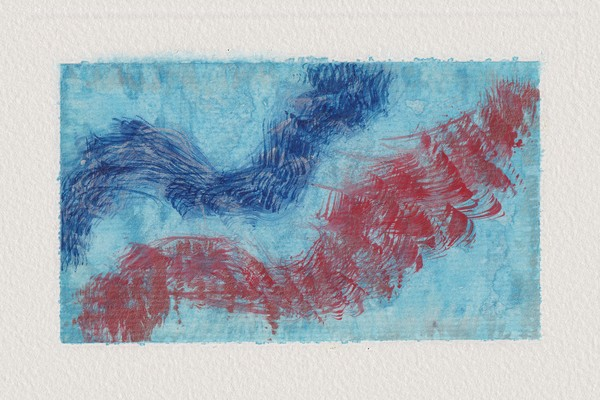
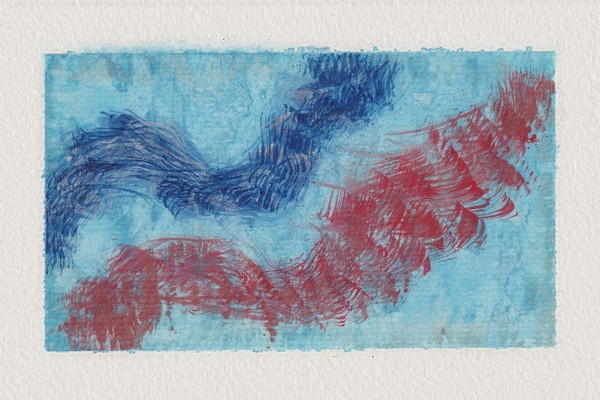
Index: Structure in one row of five, slightly larger

diff --git a/works-index.html b/works-index.html
@@ -478,14 +478,15 @@ const yearOpts = () => [['All', 'All Years']].concat([...new Set([...document.qu
 // one series on its own: works per row (the last row centred under the others)
 const SERIES_COLS = { 'Ascent': 6, 'Convergence': 3, 'Core': 3, 'Select': 3, 'Spectrum': 2, 'Structure': 3, 'The Turning': 3, 'Tonal': 3 };   // (Tonal 3/2 since 2026-10-30; it was 2/2/1)
 // rows set by hand where the plain split would differ, each centred: Convergence's seven works 3/1/3 (2026-10-29; sized as Core is)
-const SERIES_ROWS = { 'The Turning': [4, 3], 'Ascent': [5, 4] };   // (Ascent's nine 5 + 4 since 2026-11-19, Grace; they were 6 + 3)   // (since 2026-11-19 Convergence's six fall into 3 + 3 and The Turning's seven are 4 + 3, Convergence 6 and The Turning 6 having left the site; Convergence's seven were 3/1/3)
+const SERIES_ROWS = { 'The Turning': [4, 3], 'Ascent': [5, 4], 'Structure': [5] };   // (Structure's five in one row since 2026-11-19, Grace; they were 3 + 2)   // (Ascent's nine 5 + 4 since 2026-11-19, Grace; they were 6 + 3)   // (since 2026-11-19 Convergence's six fall into 3 + 3 and The Turning's seven are 4 + 3, Convergence 6 and The Turning 6 having left the site; Convergence's seven were 3/1/3)
 // (since 2026-11-19, Grace) a year's works in rows of these lengths, in order, series running on into the next row where they
 // must (2025: 7 + 7; 2024: 5, 4, 4, 5), each row centred; laid out in one block (#idxYear, see layout) whose series rows flow
 const YEAR_ROWS = { '2025': [7, 7], '2024': [5, 4, 4, 5] };
 // sized as if in rows of this many, then scaled, and allowed past the content width to 96px from the screen's edges (the page may
 // scroll): Ascent 15% larger, Spectrum 46% (35%, then 20% more, then 10% smaller on 2026-10-30), Tonal 25% larger than it was in
 // rows of 2 (2026-10-30)
-const SERIES_SIZE = { 'Ascent': [6, 1.15], 'Spectrum': [2, 1.35 * 1.2 * 0.9], 'Tonal': [2, 1.25] };
+const SERIES_SIZE = { 'Structure': [5, 1.35], 'Ascent': [6, 1.15],   // (Structure since 2026-11-19, Grace: one row of five, about 12% larger than its 3 + 2 had been)
+  'Spectrum': [2, 1.35 * 1.2 * 0.9], 'Tonal': [2, 1.25] };
 // (since 2026-11-02) each series' own adjustments on top of that: k = size, cx / cy = the space between columns / rows, dy = moved up (-)
 // or down, row2 = the second row that much lower, zoom = the hovered work's size (the growth over 1.075's 7.5%: Ascent 1.25 times,
 // Convergence, Core, Select and Structure 2.5 times, Tonal 1.75 times); Spectrum's columns as far apart as its rows.
@@ -496,7 +497,7 @@ const Z = f => 1 + 0.075 * f, ZOOM = Z(2.5);
 const SERIES_TUNE = {
   'Ascent': { k: 0.9, row2: 20, cx: 2 },
   'Convergence': { k: 1.15, dy: -30, cx: 2 }, 'Core': { k: 1.15, dy: -30, cx: 2 },
-  'Select': { k: 1.15, dy: -30, cx: 2 }, 'Structure': { k: 1.15, dy: -30, cx: 2, row1: 15 },   // row1 (since 2026-11-19, Grace): the top row that much lower (drawn there; the layout is unchanged)
+  'Select': { k: 1.15, dy: -30, cx: 2 }, 'Structure': { k: 1.15, dy: -30, cx: 0.9 },   // (since 2026-11-19, Grace) one row of five (SERIES_ROWS), the columns closer (0.9, was 2) so the works can be larger within the content width; row1 = the top row that much lower (Structure's 15px while it was 3 + 2)
  
   'Spectrum': { k: 0.9, cxRow: true, zoom: Z(2.5 * 0.8) },
   'The Turning': { k: 1.15, cx: 2 },

diff --git a/SITE-STATE.md b/SITE-STATE.md
@@ -336,7 +336,7 @@ Artifact (Ascent), Convergence 6 and The Turning 6 are off the site: out of ever
   - **Vertical and Tonal (since 2026-11-19, later, Grace; desktop grid)**: Vertical four across in two rows (cols 4, per 8, step 4: pages 1-8, 5-12, 9-14, a row on each time), asked 20% larger; two rows of portraits are limited by the height, so it is as large as fits with the hover titles clear: 464 x 696px at 3840 x 1834 (a plain 4 x 2 would be 444 x 666; the one row of four before was 569 x 853), 234 x 351 at 1920; icon 4 x 2. Tonal 3 over 2, 15% larger (k 0.88 x 1.15): 785 x 523 at 3840, 449 x 299 at 1920 (31px clear of the arrows' chevrons). Ascent keeps its earlier size (569 x 853), no longer tied to Vertical's.
   - **Series grid sizes (since 2026-11-19, Grace; desktop, the third icon)**: Vertical's row of four and Ascent's pages (4, 3, 3) the same size, 10% larger than Vertical's earlier 518 x 776 (k 1.023; Ascent's 30% cap dropped): 569 x 853px at 3840 x 1834 (gaps 108px); narrower screens keep the gaps at least 60% of 60px, so they grow less there (449 x 674 at 2560, 324 x 485 at 1920, gaps 36px). Structure 5% smaller (422 x 632 at 3840, 327 x 490 at 2560, 235 x 353 at 1920). Tonal's 3 + 2 12% smaller (682 x 455, 541 x 361, 395 x 263); The Turning's 2 x 2 5% larger, and Spectrum, Select, Core and Convergence exactly the same size (931 x 621, 754 x 502, 508 x 339). The 2 x 2s used to differ because the grid kept clear of the SERIES menu, whose width follows the chosen name; now each is sized as if it read THE TURNING (`same` in `SERIES_LAYOUT`), so Convergence, the longest name, comes closest to the menu (106px at 3840, 13px at 2560, 27px at 1920). Sizing options `k` (SERIES_DESK) and `same`.
   - **2024, three-up (since 2026-11-19, Grace; desktop)**: with YEAR 2024 picked, the second view's three works 7% smaller, so the outer ones sit further in from the arrows: 699 x 466px at 3840 (155px from the arrow, was 76), 526 x 351 at 2560 (96px), 387 x 258 at 1920 (39px).
-  - **Index, Structure (since 2026-11-19, Grace)**: with Structure chosen, its top row sits 15px lower (`SERIES_TUNE` row1; drawn there, the layout unchanged).
+  - **Index, Structure (since 2026-11-19, Grace)**: with Structure chosen, its five works sit in one row (`SERIES_ROWS` [5]; they were 3 + 2, the top row briefly 15px lower), as large as the content width allows with the columns 0.9 x the usual gap (asked 10-15% larger; the content width holds about 5%): 507 x 760px at 3840 x 1834 (49px apart; 483 x 725 before), 290 x 435 at 1920 (28px apart).
   - **Index page, menus' line (since 2026-11-19, Grace; desktop)**: the SERIES / YEAR menus 7px lower, and the hovered series' name (SERIES 1, ASCENT) on their exact baseline in every mode (all series, one series, Horizontal / Vertical, a year; it used to be centred on them, and stayed below them with one series chosen). The name is 2px larger than the menus' text (17px against 15px at 3840).
   - **Filter dropdowns on top (since 2026-11-19, Grace)**: while the SERIES or YEAR list is open, the menus' row is lifted above everything (`.tools:has(.filter-menu.open)`, z-index 400), on the Gallery and the Index.
   - **Convergence pages and Ascent's icon (since 2026-11-19, Grace)**: Convergence's six works always show four at a time in its 2 x 2, the pages one row apart (works 1-4, then 3-6: the lower two of the first page become the top row, sliding up one row, as 2025's do; `step: 2`). Ascent's grid icon shows three bars (`icon: 3`), matching its pages of three (they keep the size worked out for four across).
@@ -356,6 +356,7 @@ Artifact (Ascent), Convergence 6 and The Turning 6 are off the site: out of ever
 - **Paper mat at 70%** (since 2026-10-15): every gallery page (G5, G6, G7, the grid and the Index), the detail view, its zoom view and the buy page use `assets/works-m70/` and `assets/thumbs-m70/`: each scan cropped about its painting so the white paper around it is 70% of its width on the tighter side (the other side about 80%), keeping its exact 3:2 or 2:3 shape, so no layout changed (64 files; since 2026-10-19, 62 of them rebuilt from Ned's full-size 4328px finalized scans at 3200px on the long side, quality 86, with exactly the same framing as before (each checked against the previous file); Brilliance (the site version is an edited build with no full-size copy) and Emergence (its dedication was added at 2400px only) stay at about 2230px; scans are taken from the local copies of `Finalized Photography` / `Finalized Imagery`, using an upright copy where one copy is stored sideways; no embedded tags; thumbnails 600px). The homepage keeps `assets/works/` with its own zoom. Regenerate both folders when a work's image changes.
 - **Proportions**: everything that assumed the old 1.494:1 scans now uses exactly 3:2 (G5's 12-up box, the homepage frame and thumbnails, `tools/uniform-works.py`). Orientation follows the documentation decks (`Painting Documentation.zip`); `Ned - Website Works Mapping.xlsx` (next to the site folder) lists every work with its thumbnail, old site title and notes, plus open questions.
 - **Aurora's paper border narrower (since 2026-11-18, Grace: "everywhere")**: the paper round Select's Aurora is 20% narrower at the sides in every copy, each file cropped about the painting and scaled back to its own size and 3:2 shape (top and bottom lose the same pixels, so a little less in proportion). Site files (`assets/works-m70`, `works-m70-2000`, `works`, `thumbs`, `thumbs-m70`): at 3200px the paper 84px at the sides and 127px top and bottom (was 104 / 140), the painting now centred. New scan (`newScans/select/{3200,2000,600}/02_Select_Aurora.jpg`, and the same files in `_incoming/scans-2026-11-14/select/`): made from the pipeline's master with the same crop, saved at the pipeline's quality budgets; at 3200px 265px at the sides and 243px top and bottom (was about 320 / 276). The master itself is unchanged, so re-running `process.py` for Select would bring the wider border back.
+- **Confluence's new-scan paper border narrower (since 2026-11-19, Grace: 30% less)**: `newScans/select/{3200,2000,600}/03_Select_Confluence.jpg` (and the same files in `_incoming/scans-2026-11-14/select/`) remade from the pipeline's master, cropped about the painting so the paper at the sides is 30% narrower, kept at 3:2 (so the top and bottom lose the same pixels, about 20% of theirs). At 3200px: 239px at the sides, 272px top and bottom (were 321 / 315-327). The site's own Confluence files (`assets/`) are unchanged. The master is unchanged, so re-running `process.py` for Select would bring the wider border back.
 - Fallback: a light green box shows if any artwork file is missing.
 
 ## Open items
